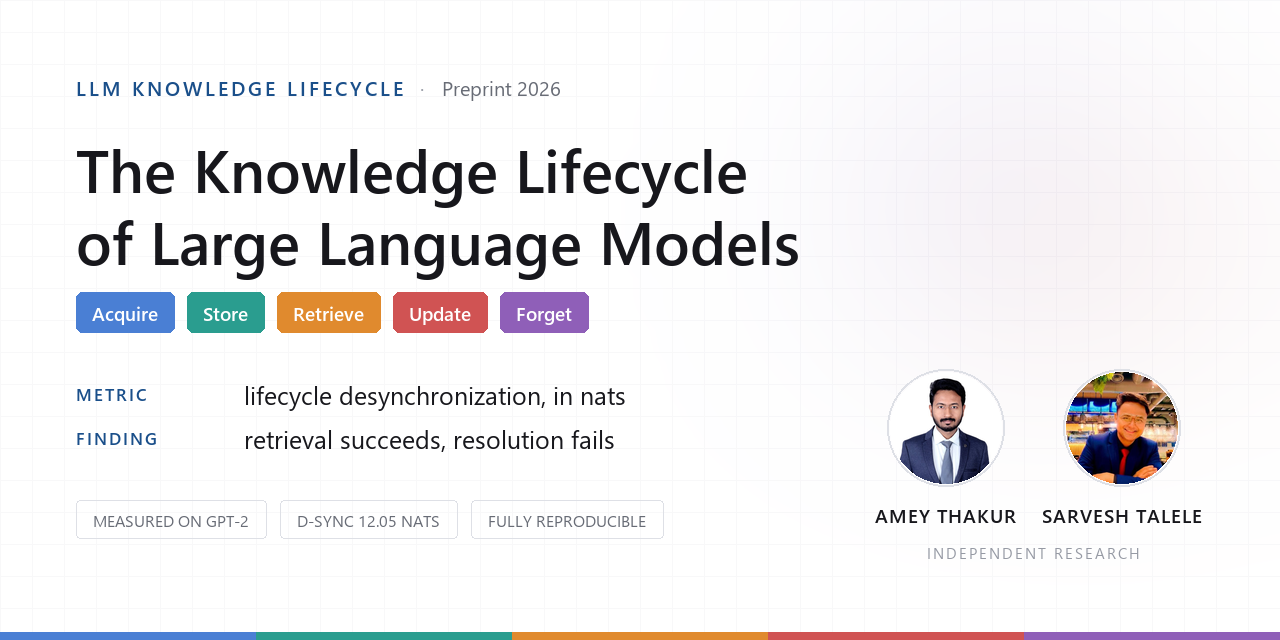
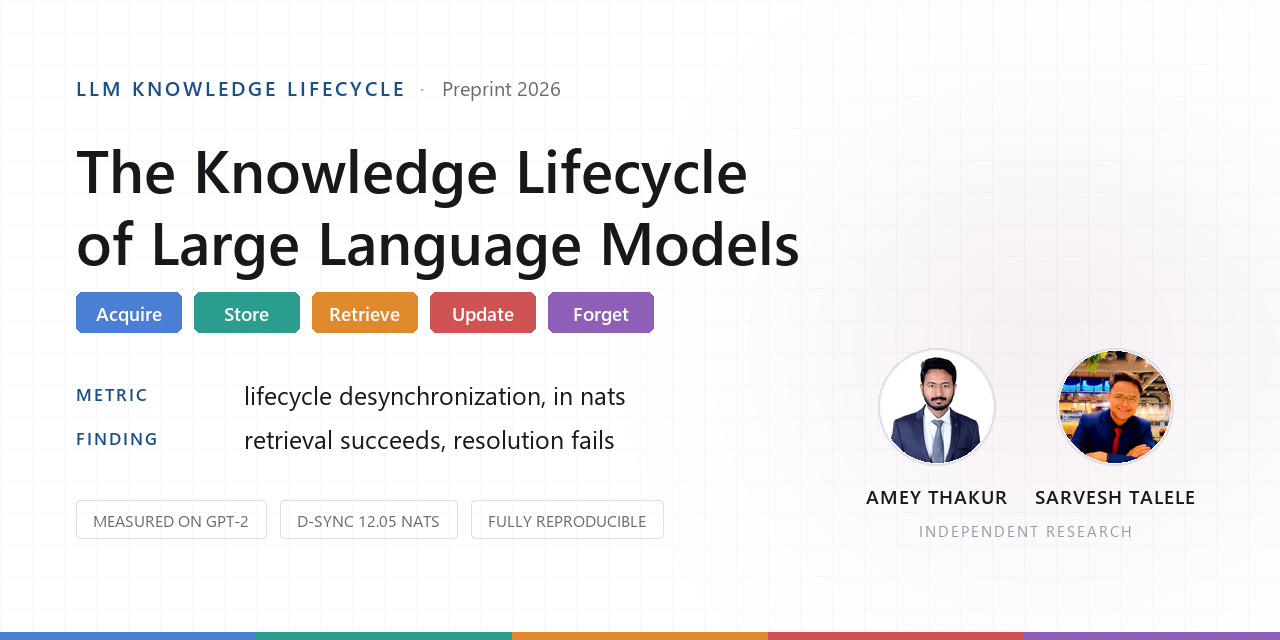
Knowledge Lifecycle

Changed region(s): [[0.6875, 0.5312, 0.9375, 0.875], [0.0625, 0.4375, 0.5312, 0.5312]]

diff --git a/space/index.html b/space/index.html
@@ -30,8 +30,10 @@
   <h1>LLM Knowledge Lifecycle</h1>
   <p class="subtitle">
     A model holds two memories: what it learned in training, and what you put in its prompt.
-    When they disagree, which one wins? Companion demonstration for
-    <em>The Knowledge Lifecycle of Large Language Models</em>.
+    When they disagree, which one wins?
+  </p>
+  <p class="paper-line">
+    Companion demonstration for <em>The Knowledge Lifecycle of Large Language Models</em>
   </p>
   <p class="badges">
     <a href="https://github.com/Amey-Thakur/LLM-KNOWLEDGE-LIFECYCLE"><img src="https://img.shields.io/badge/GitHub-LLM--KNOWLEDGE--LIFECYCLE-181717?logo=github" alt="GitHub repository"></a>

diff --git a/space/style.css b/space/style.css
@@ -354,3 +354,11 @@ footer { margin-top: 4rem; padding-top: 2rem; }
    after a mouse click. Replace it with the page's own focus treatment. */
 .tab:focus { outline: none; }
 .tab:focus-visible { outline: 2px solid var(--accent); outline-offset: -2px; }
+
+/* the paper's title, given its own line so it is not buried mid-sentence */
+.paper-line {
+  margin: .5rem auto 1.1rem;
+  font-size: .95rem;
+  color: var(--muted);
+}
+.paper-line em { color: var(--ink); font-style: italic; }

diff --git a/.github/scripts/make_preview.py b/.github/scripts/make_preview.py
@@ -62,8 +62,8 @@ for y in range(0, H, 32):
 # a tint in the paper rather than as a shape drawn on top of it.
 wash = Image.new("RGB", (W, H), BG)
 wd = ImageDraw.Draw(wash)
-wd.ellipse([850, 80, 1200, 340], fill=(150, 130, 205))
-wd.ellipse([960, 150, 1230, 360], fill=(205, 145, 150))
+wd.ellipse([846, 186, 1246, 506], fill=(150, 130, 205))
+wd.ellipse([906, 246, 1186, 486], fill=(205, 145, 150))
 img = Image.blend(img, wash.filter(ImageFilter.GaussianBlur(100)), 0.16)
 d = ImageDraw.Draw(img)
 
@@ -88,12 +88,16 @@ d.text((MARGIN, 200), "of Large Language Models", font=f_title, fill=INK)
 
 # --- the five stages, named in their own colours ----------------------------
 # These are the framework, so they are shown rather than listed as prose.
+# Every chip takes the width of the longest name, so the row reads as one
+# object rather than five differently sized ones.
+CHIP_W = max(d.textlength(n, font=f_stage) for n in NAMES) + 34
+CHIP_GAP = 13
 x = MARGIN
 for name, colour in zip(NAMES, STAGES):
-    w = d.textlength(name, font=f_stage)
-    d.rounded_rectangle([x, 292, x + w + 32, 332], radius=6, fill=colour)
-    d.text((x + 16, 300), name, font=f_stage, fill=(255, 255, 255))
-    x += w + 32 + 13
+    d.rounded_rectangle([x, 292, x + CHIP_W, 332], radius=6, fill=colour)
+    d.text((x + (CHIP_W - d.textlength(name, font=f_stage)) / 2, 300),
+           name, font=f_stage, fill=(255, 255, 255))
+    x += CHIP_W + CHIP_GAP
 
 # --- contribution rows -----------------------------------------------------
 rows = [
@@ -130,28 +134,45 @@ def portrait(source, size):
     return face, mask
 
 
-# --- authors, holding the right third --------------------------------------
+# --- authors ---------------------------------------------------------------
+# The block is right-aligned to the same margin the text uses on the left, and
+# vertically centred against the body of the card, so the two columns balance
+# rather than merely sitting beside one another.
 SIZE = 112
+CELL = 178                      # one author: portrait, name, and its share of the gutter
+BLOCK_W = CELL * 2
+BLOCK_L = W - MARGIN - BLOCK_W  # mirrors MARGIN exactly on the right edge
+
+# The block is bottom-aligned with the fact chips rather than floated in the
+# middle. A shared baseline reads as deliberate; a centred block beside a
+# bottom-anchored column reads as drift.
+BODY_BOTTOM = 538                         # bottom edge of the fact chips
+BLOCK_H = SIZE + 20 + 25 + 12 + 18        # portrait, gap, name, gap, affiliation
+TOP = BODY_BOTTOM - BLOCK_H
+
 authors = [
     ("C:/t/tp/space/amey-thakur.jpg", "AMEY THAKUR"),
     ("https://github.com/sarveshtalele.png", "SARVESH TALELE"),
 ]
-centres = [946, 1122]
+centres = [BLOCK_L + CELL // 2, BLOCK_L + CELL + CELL // 2]
+
 for (source, name), cx in zip(authors, centres):
-    top = 372
     try:
         face, mask = portrait(source, SIZE)
-        img.paste(face, (cx - SIZE // 2, top), mask)
+        img.paste(face, (cx - SIZE // 2, TOP), mask)
     except Exception as error:
         print(f"  portrait unavailable for {name}: {error}")
-    d.ellipse([cx - SIZE // 2 - 3, top - 3, cx + SIZE // 2 + 2, top + SIZE + 2],
+    d.ellipse([cx - SIZE // 2 - 3, TOP - 3, cx + SIZE // 2 + 2, TOP + SIZE + 2],
               outline=RULE, width=2)
     tw = sum(d.textlength(c, font=f_name) + 1 for c in name)
-    tracked(d, (cx - tw / 2, top + SIZE + 18), name, f_name, INK, 1)
+    tracked(d, (cx - tw / 2, TOP + SIZE + 20), name, f_name, INK, 1)
 
 affil = "INDEPENDENT RESEARCH"
 aw = sum(d.textlength(c, font=f_affil) + 2 for c in affil)
-tracked(d, ((centres[0] + centres[1]) / 2 - aw / 2, 542), affil, f_affil, DIM, 2)
+tracked(d, (BLOCK_L + BLOCK_W / 2 - aw / 2, TOP + SIZE + 57), affil, f_affil, DIM, 2)
+
+# The wash follows the author block rather than sitting at a fixed spot.
+assert BLOCK_L + BLOCK_W == W - MARGIN, "author block must mirror the left margin"
 
 # --- foot band, the five stages once more ----------------------------------
 seg = W / 5
